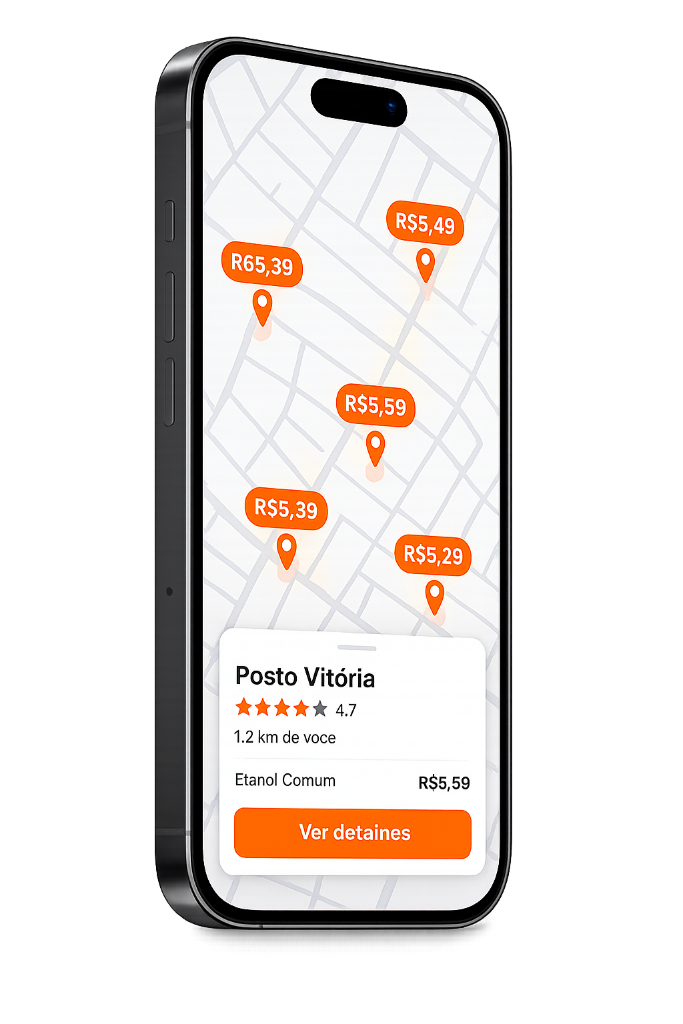
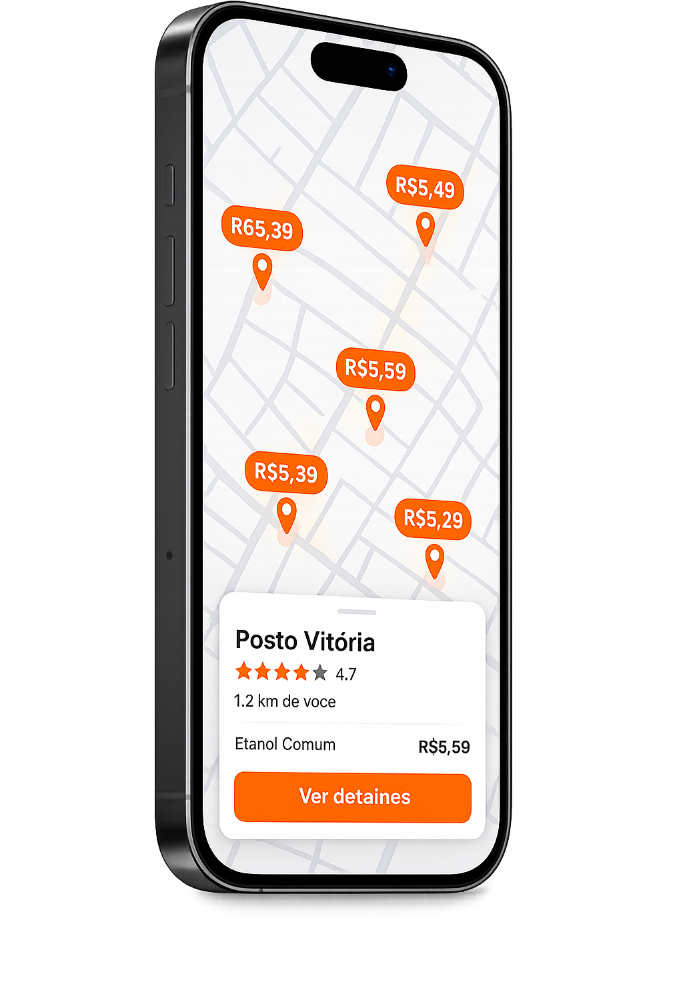
fix: hero definitivo - grid layout + stats row - sem espaco vazio

diff --git a/src/parcerias.ts b/src/parcerias.ts
@@ -69,48 +69,44 @@ export function getParceriasLandingHTML(): string {
 
     /* ── HERO ── */
     .hero-wrap{
-      display:flex;
+      display:grid;
+      grid-template-columns:1fr 300px;
       align-items:center;
-      width:100%;
-      padding:0 0 0 40px;
+      padding:56px 0 0 56px;
       gap:0;
-      overflow:hidden;
-      min-height:480px
+      overflow:hidden
     }
     .hero-left{
-      flex:1;
-      min-width:0;
-      padding-right:32px
+      display:flex;flex-direction:column;
+      justify-content:center;
+      padding-bottom:56px;
+      padding-right:48px
     }
     .hero-right{
-      flex-shrink:0;
-      width:360px;
-      align-self:stretch;
-      overflow:hidden;
-      display:flex;
-      align-items:flex-end
+      align-self:flex-end;
+      line-height:0
     }
     .hero-right img{
-      width:360px;
+      width:100%;
       height:auto;
       display:block;
-      filter:drop-shadow(-8px 0 40px rgba(255,109,0,0.2))
+      max-height:calc(100vh - 64px);
+      object-fit:contain;
+      object-position:bottom
     }
     h1{
-      font-size:clamp(48px,5.5vw,80px);
-      font-weight:900;line-height:1.0;
-      letter-spacing:-3px;
-      margin-bottom:20px
+      font-size:clamp(46px,4.8vw,76px);
+      font-weight:900;line-height:1.05;
+      letter-spacing:-2px;margin-bottom:20px
     }
     h1 span{color:#FF6D00}
     .hero-sub{
       font-size:17px;color:rgba(255,255,255,0.6);
       line-height:1.65;font-weight:500;
-      margin-bottom:28px;
-      max-width:540px
+      margin-bottom:28px;max-width:520px
     }
     .hero-sub em{color:rgba(255,180,80,0.9);font-style:normal}
-    .hero-ctas{display:flex;gap:14px;flex-wrap:wrap}
+    .hero-ctas{display:flex;gap:14px;flex-wrap:wrap;margin-bottom:40px}
     .cta-primary{
       display:inline-flex;align-items:center;gap:9px;
       padding:15px 30px;background:#FF6D00;color:#fff;
@@ -118,7 +114,7 @@ export function getParceriasLandingHTML(): string {
       border:none;cursor:pointer;font-family:'Raleway',sans-serif;
       transition:all .18s
     }
-    .cta-primary:hover{background:#E65100;transform:translateY(-2px);box-shadow:0 10px 28px rgba(255,109,0,0.4)}
+    .cta-primary:hover{background:#E65100;transform:translateY(-2px)}
     .cta-secondary{
       display:inline-flex;align-items:center;gap:9px;
       padding:15px 24px;background:rgba(255,255,255,0.06);
@@ -127,6 +123,27 @@ export function getParceriasLandingHTML(): string {
       cursor:pointer;font-family:'Raleway',sans-serif;transition:all .18s
     }
     .cta-secondary:hover{background:rgba(255,255,255,0.1)}
+    .hero-stats{
+      display:flex;gap:0;
+      border-top:1px solid rgba(255,255,255,0.08);
+      padding-top:28px
+    }
+    .h-stat{
+      flex:1;
+      padding-right:28px;
+      border-right:1px solid rgba(255,255,255,0.08)
+    }
+    .h-stat:last-child{border-right:none;padding-right:0;padding-left:28px}
+    .h-stat:not(:first-child):not(:last-child){padding-left:28px}
+    .h-stat-num{
+      font-size:28px;font-weight:900;color:#fff;
+      line-height:1;margin-bottom:4px
+    }
+    .h-stat-num span{color:#FF6D00}
+    .h-stat-label{
+      font-size:12px;color:rgba(255,255,255,0.38);
+      font-weight:600;letter-spacing:.3px
+    }
 
     /* ── RECURSOS INCLUSOS ── */
     .recursos-wrap{
@@ -307,6 +324,20 @@ export function getParceriasLandingHTML(): string {
       <button class="cta-secondary" onclick="openM('premium')">
         <i class="fas fa-play"></i> Conhecer a plataforma
       </button>
+    </div>
+    <div class="hero-stats">
+      <div class="h-stat">
+        <div class="h-stat-num">12<span>k+</span></div>
+        <div class="h-stat-label">Motoristas ativos</div>
+      </div>
+      <div class="h-stat">
+        <div class="h-stat-num">340<span>+</span></div>
+        <div class="h-stat-label">Postos parceiros</div>
+      </div>
+      <div class="h-stat">
+        <div class="h-stat-num">98<span>%</span></div>
+        <div class="h-stat-label">Satisfação</div>
+      </div>
     </div>
   </div>
   <div class="hero-right">